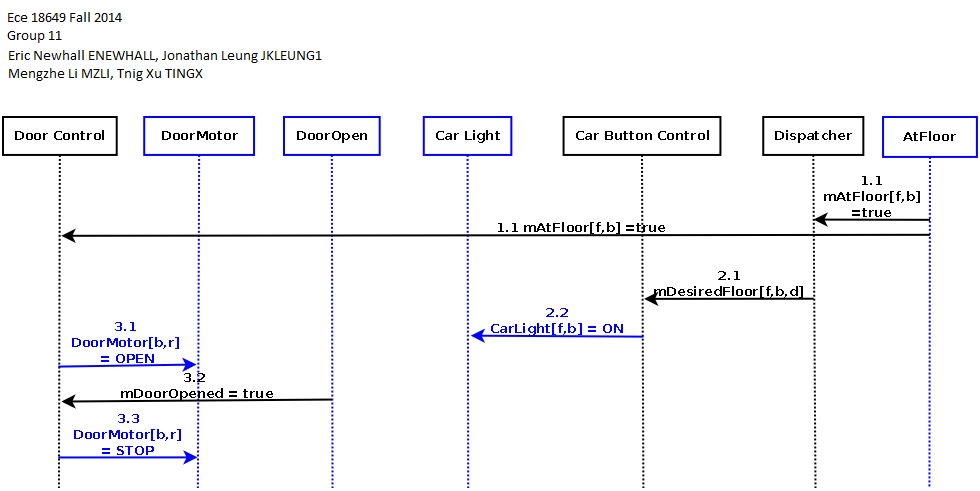
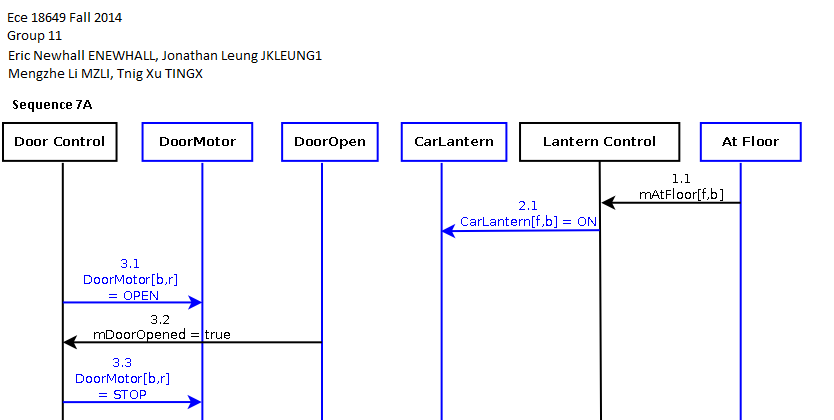
Added LanternControl Reqs and Fixed issues in Scen 7

diff --git a/portfolio/reqs/requirements2.html b/portfolio/reqs/requirements2.html
@@ -1313,11 +1313,46 @@ pair of bulbs as a single actuator.</li>
 based on comparing CurrentFloor with Floor desired by Dispatcher.&nbsp;
 This is implicitly computed and used as a macro in the behavior
 descriptions. </li>
+  <li>DesiredFloor = {f} is the most recent message recieved from mDesiredFloor</li>
 </ul>
 <h3> CONSTRAINTS: </h3>
 7.1&nbsp;&nbsp;&nbsp; Both CarLanterns[d] shall not be On at the same
 time.
 <h3> EVENT-TRIGGERED BEHAVIORS: </h3>
+<ul>
+  <li>7.1 mDoorClosed[b,r] and DesiredDirection == Down shall 
+    <ul>
+    <li>7.1a Command CarLantern[Down] to On and CarLantern[Up] to Off</li>
+    <li>7.1b Send mCarLantern[Down](On) and mCarLantern[Up](Off)</li>
+    </ul></li>
+  <li>7.2 mDoorClosed[b,r] and DesiredDirection == Up shall
+    <ul>
+    <li>7.2a Command CarLantern[Up] to On and CarLantern[Down] to Off</li>
+    <li>7.2b Send mCarLantern[Up](On) and mCarLantern[Down](Off) </li>
+    </ul></li>
+  <li>7.3 mDoorClosed[b,r] and DesiredDirection == Stop shall 
+    <ul>
+    <li>7.3a Command CarLantern[Up] to Off and CarLantern[Down] to Off</li>
+    <li>7.3b Send mCarLantern[Up](Off) and mCarLantern[Down](Off) </li>
+    </ul></li>  
+  <li>7.4 mDesiredFloor shall set DesiredFloor == mDesiredFloor</li>
+  <li>7.5 mAtFloor == DesiredFloor and DesiredDirection == Down shall
+    <ul>
+    <li>7.5a Command CarLantern[Down] to On and CarLantern[Up] to Off</li>
+    <li>7.5b Send mCarLantern[Down](On) and mCarLantern[Up](Off)</li>
+    </ul></li>
+  <li>7.6 mAtFloor == DesiredFloor and DesiredDirection == Up shall
+    <ul>
+    <li>7.6a Command CarLantern[Up] to On and CarLantern[Down] to Off</li>
+    <li>7.6b Send mCarLantern[Up](On) and mCarLantern[Down](Off) </li>
+    </ul></li>
+  <li>7.7 mAtFloor == DesiredFloor and DesiredDirection == Stop shall
+    <ul>
+    <li>7.7a Command CarLantern[Up] to Off and CarLantern[Down] to Off</li>
+    <li>7.7b Send mCarLantern[Up](Off) and mCarLantern[Down](Off) </li>
+    </ul></li>  
+  
+</ol>
 <br>
 <h2><a name="hallbuttoncontrol"></a> 8. HallButtonControl[f, b, d] </h2>
 <h3> Replication: </h3>

diff --git a/portfolio/scen_sd/scen_sd.html b/portfolio/scen_sd/scen_sd.html
@@ -443,6 +443,7 @@ direction), with enabled pickup in hallway <b>b</b>. </li>
 <ol>
 <li>Door[b,r] are opened</li>
 <li>Door[b,r] are closed</li>
+<li>CarLantern[f,b] are turned off</li>
 </ol>
 <h3> Post-Conditions: </h3>
 <ul>
@@ -466,8 +467,8 @@ doors close on a hallway. </h3>
 </ul>
 <h3> Scenario: </h3>
 <ol>
-<li>Set car lanterns based on desired direction</li>
 <li>Door[b,r] are closed</li>
+<li>Set car lanterns based on desired direction</li>
 </ol>
 <h3> Post-Conditions: </h3>
 <ul>
